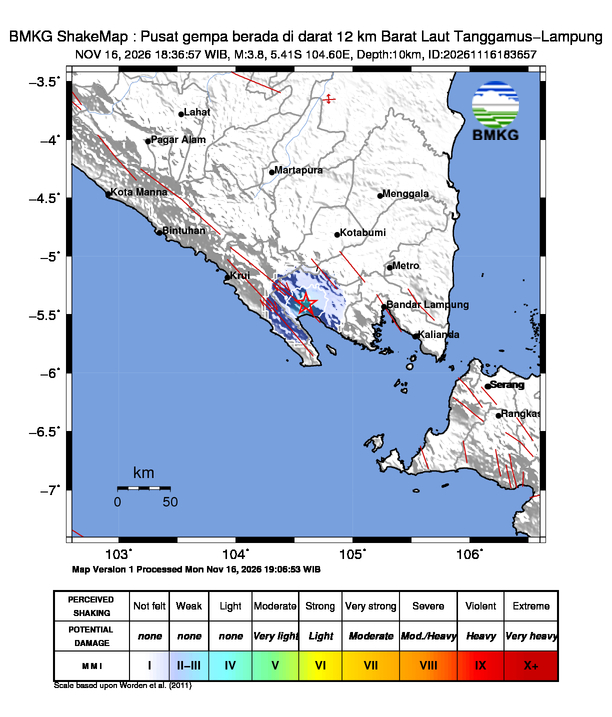
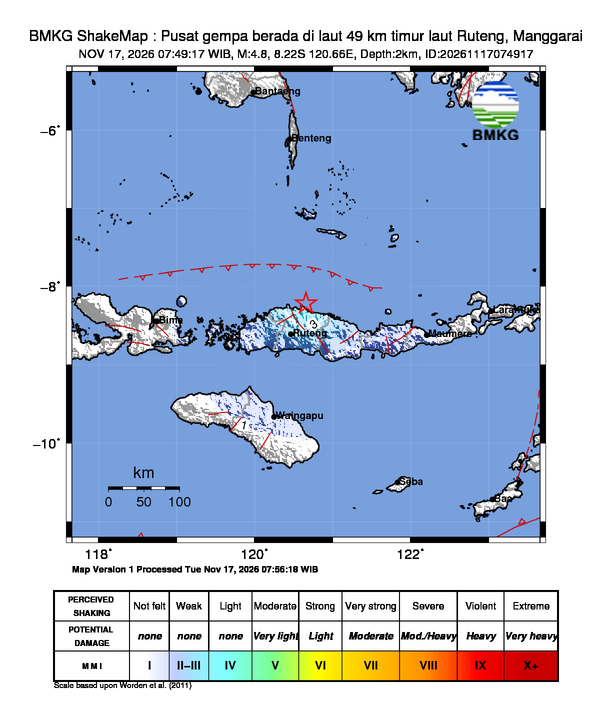
docs: update info gempa & README - 2026-11-17 09:03:51 WIB [skip ci]

diff --git a/README.md b/README.md
@@ -2,7 +2,7 @@
 
 > Monitor gempa bumi real-time untuk wilayah Indonesia. Data diambil otomatis dari **BMKG** setiap 5 menit oleh GitHub Actions, lalu ditampilkan lengkap di README ini beserta peta guncangannya (shakemap).
 
-🕒 **Update otomatis terakhir:** Selasa, 17 November 2026 pukul 01.36.59
+🕒 **Update otomatis terakhir:** Selasa, 17 November 2026 pukul 09.03.46
 
 ---
 
@@ -10,13 +10,13 @@
 
 | Parameter | Detail |
 | --- | --- |
-| 📊 **Magnitudo** | M 3.8 |
-| 📍 **Wilayah** | Pusat gempa berada di darat 12 km Barat Laut Tanggamus-Lampung |
-| 🕒 **Waktu** | 16 Nov 2026, 18:36:57 WIB |
-| 🧭 **Koordinat** | -5.41,104.60 |
-| 📏 **Kedalaman** | 10 km |
+| 📊 **Magnitudo** | M 4.8 |
+| 📍 **Wilayah** | Pusat gempa berada di laut 49 km timur laut Ruteng, Manggarai |
+| 🕒 **Waktu** | 17 Nov 2026, 07:49:17 WIB |
+| 🧭 **Koordinat** | -8.22,120.66 |
+| 📏 **Kedalaman** | 2 km |
 | 🌊 **Potensi** | Gempa ini dirasakan untuk diteruskan pada masyarakat |
-| 📡 **Dirasakan** | III Tanggamus |
+| 📡 **Dirasakan** | III Kab. Manggarai |
 | 🔗 **Sumber** | [BMKG — InfoGempa Realtime](https://www.bmkg.go.id/gempabumi) |
 
 ### 🗺 Peta Guncangan (Shakemap)
@@ -29,6 +29,7 @@
 
 | Waktu | Magnitudo | Wilayah | Kedalaman | Potensi |
 | --- | --- | --- | --- | --- |
+| 17 Nov 2026 07:49:17 WIB | **M 4.8** | Pusat gempa berada di laut 49 km timur laut Ruteng, Manggarai | 2 km | Gempa ini dirasakan untuk diteruskan pada masyarakat |
 | 16 Nov 2026 18:36:57 WIB | **M 3.8** | Pusat gempa berada di darat 12 km Barat Laut Tanggamus-Lampung | 10 km | Gempa ini dirasakan untuk diteruskan pada masyarakat |
 | 16 Nov 2026 03:51:57 WIB | **M 5.4** | 265 km Tenggara BURUSELATAN-MALUKU | 323 km | Tidak berpotensi tsunami |
 | 15 Nov 2026 22:41:15 WIB | **M 5.4** | 127 km BaratLaut GORONTALOUTARA-GORONTALO | 465 km | Tidak berpotensi tsunami |
@@ -43,7 +44,6 @@
 | 10 Nov 2026 08:53:28 WIB | **M 5.4** | 90 km BaratDaya TANIMBAR | 84 km | Tidak berpotensi tsunami |
 | 09 Nov 2026 17:38:54 WIB | **M 3.9** | Pusat gempa berada di laut 44 km timur laut Mbay-Nagekeo | 10 km | Gempa ini dirasakan untuk diteruskan pada masyarakat |
 | 09 Nov 2026 07:44:58 WIB | **M 2.5** | Pusat gempa berada di laut 1 km timur Jailolo | 10 km | Gempa ini dirasakan untuk diteruskan pada masyarakat |
-| 08 Nov 2026 01:54:12 WIB | **M 3.3** | Pusat gempa berada di darat 20 km timur Kendari | 5 km | Gempa ini dirasakan untuk diteruskan pada masyarakat |
 
 ---
 
